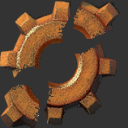
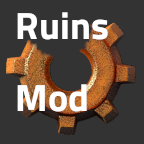
Added contributing.md, updated description and thumbnail

diff --git a/README.md b/README.md
@@ -2,14 +2,14 @@
 
 *You weren't the first to come here... you won't be the last...*
 
-Ruins adds a good amount of randomly spawning ruins to world generation. These ruins are destroyed fragments of bases, small forts, etc. There are three categories of ruins, small, medium, and large, with respective decreasing spawn chance per generated chunk.
+Ruins adds randomly spawns ruins in the world. These ruins are destroyed fragments of bases, forts, small oases, and more. There are three categories of ruins, small, medium, and large, with respective decreasing spawn chance per generated chunk.
 
 Explore them for loot, adventure, or entertainment, but beware, some still have running defenses from the last player that landed on the planet, with more successful colonies having better defenses. The biters have deactivated these defenses towards themselves, but the turrets won't recognize you...
 
 The ruin defenses can be set to be non-hostile in the mod settings. The spawn rates of ruins are also configurable. Other mods can add their own set of ruins.
 
 Want to add your ruins to this mod?
-Check out <!--- the [ruin maker mod](https://mods.factorio.com/mod/ruin-maker), the [contributing guidelines](docs/CONTRIBUTING.md) and --> the documentation of the [ruin data format](docs/format.md).
+Check out the [ruin maker mod](https://github.com/Bilka2/ruin-maker), the [contributing guidelines](docs/CONTRIBUTING.md) and the documentation of the [ruin data format](docs/format.md).
 
 Want to make your own ruin set?
 Check out the links above, the [ruin set](docs/ruin_sets.md) documentation and [The Ruins Mod - Krastorio2](https://github.com/Bilka2/AbandonedRuins-Krastorio2) as an example mod.

diff --git a/docs/CONTRIBUTING.md b/docs/CONTRIBUTING.md
@@ -1,0 +1,11 @@
+# Contributing
+
+## Bug reports
+
+Please include the [log file](https://wiki.factorio.com/Log_file) in your bug reports.
+
+## Contributing ruins
+
+You are invited to contribute ruins to the mod. You can use the dedicated [ruin maker mod](https://github.com/Bilka2/ruin-maker) to easily create ruins in-game. You can also manually create or edit ruins, their format is documented here: [Ruin data format](../docs/format.md).
+
+If you know your way around Lua, please make a pull request that includes the ruin files and requires them in the Lua files in /ruins. Otherwise, you can zip the generated files and attach them to a [new GitHub issue](https://github.com/Bilka2/AbandonedRuins/issues/new) to submit them as an addition to this mod.
